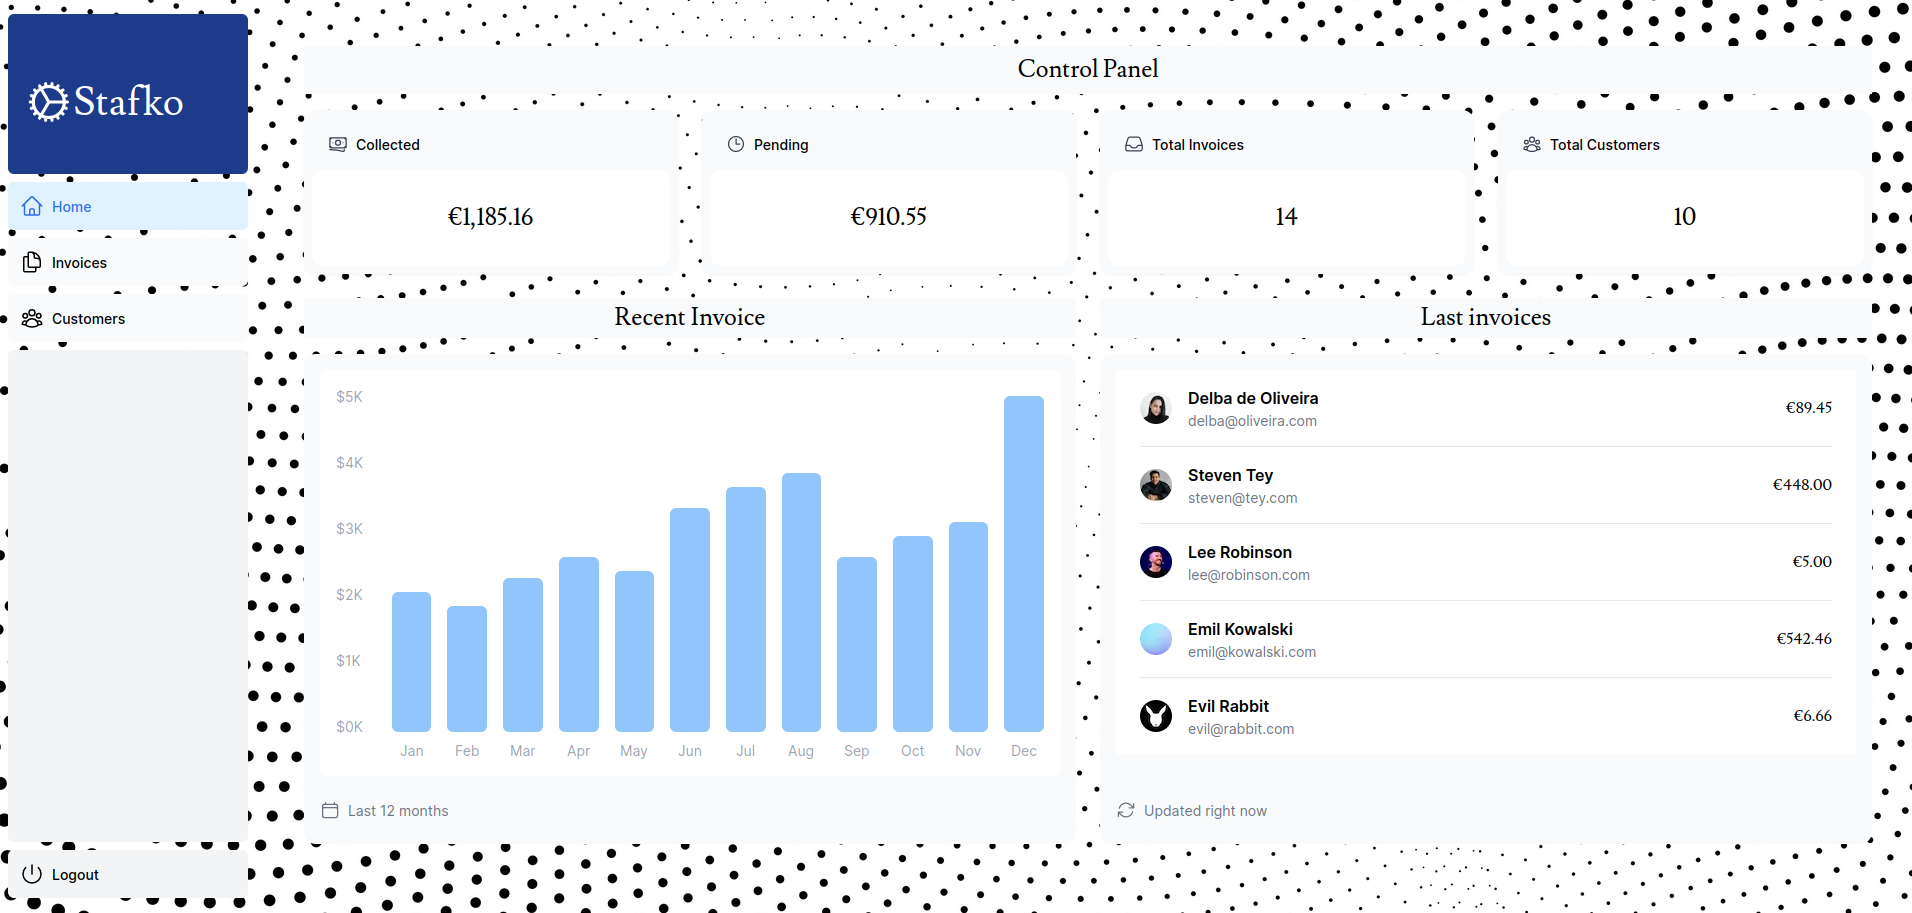
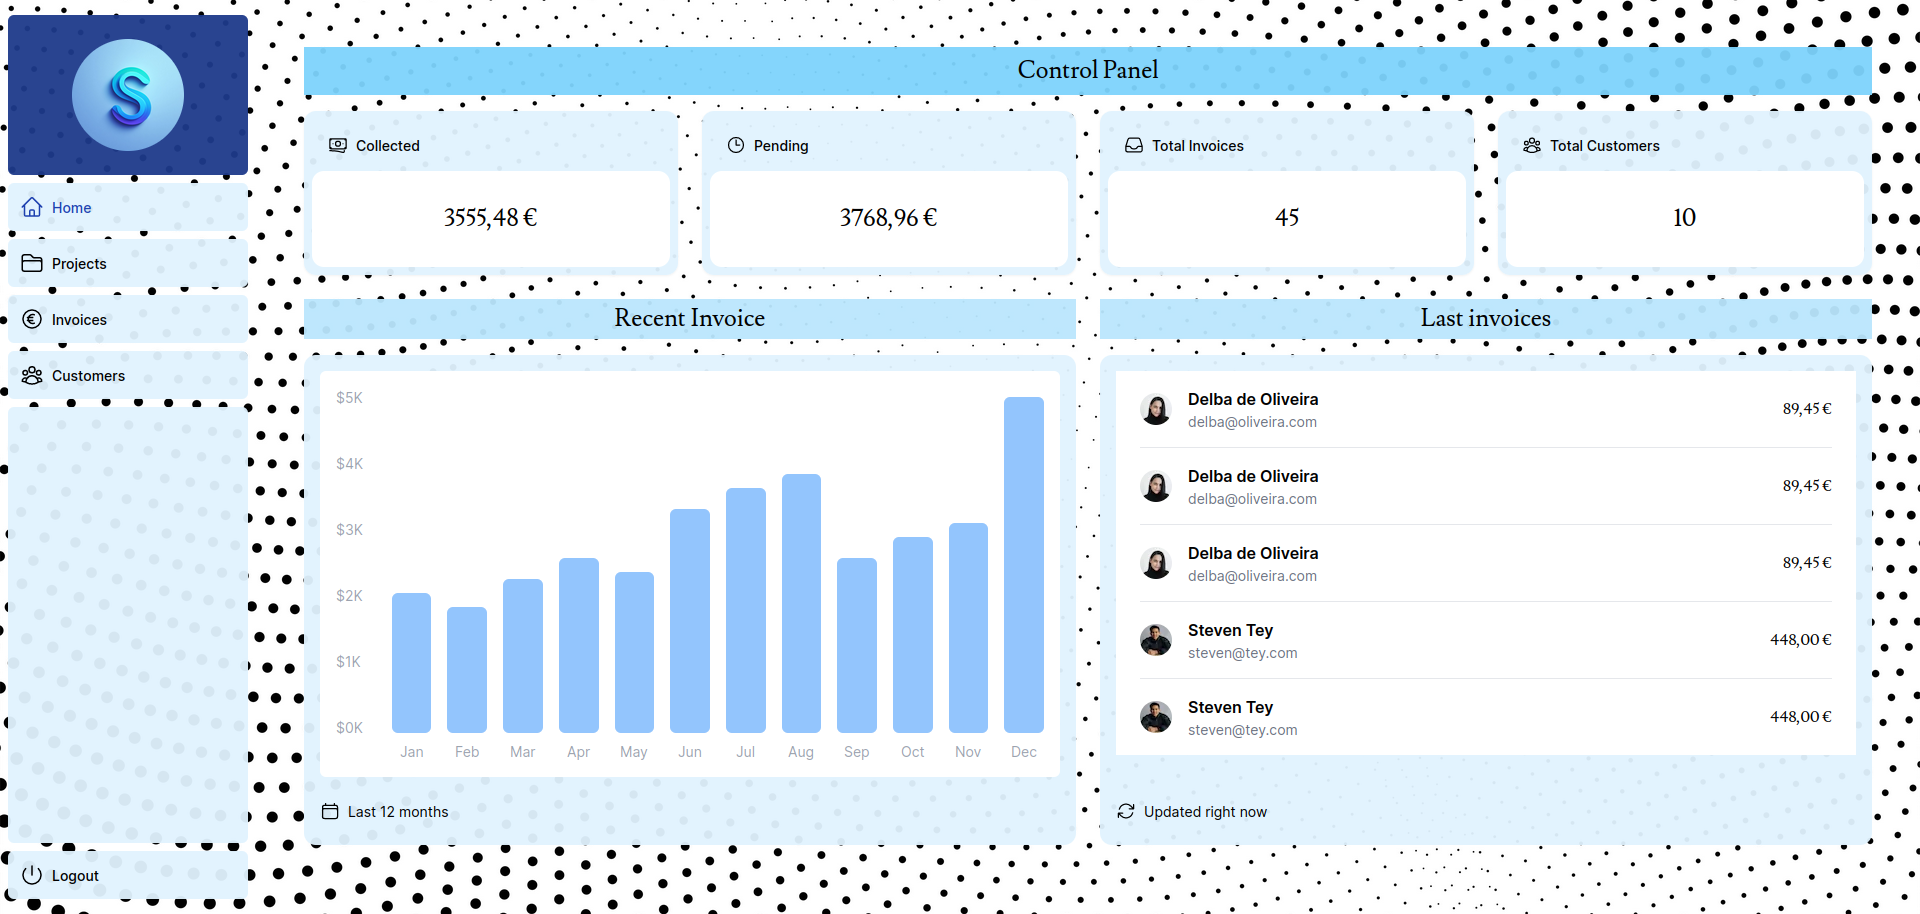
Update 30/04

diff --git a/app/ui/customers/create-form.tsx b/app/ui/customers/create-form.tsx
@@ -1,0 +1,144 @@
+'use client';
+
+import { useState } from 'react'; // Importamos useState
+import { StaffField } from '@/app/lib/definitions';
+import Link from 'next/link';
+import { CheckIcon, ClockIcon, UserGroupIcon } from '@heroicons/react/24/outline';
+import { Button } from '@/app/ui/button';
+import { createProject } from '@/app/lib/actions';
+
+export default function Form({ staff }: { staff: StaffField[] }) {
+  const [selectedStaff, setSelectedStaff] = useState<string[]>([]); // Estado para almacenar el personal seleccionado
+
+  const handleStaffSelection = (event: React.ChangeEvent<HTMLSelectElement>) => {
+    const selectedStaffId = event.target.value;
+    if (selectedStaffId && !selectedStaff.includes(selectedStaffId)) {
+      setSelectedStaff([...selectedStaff, selectedStaffId]);
+    }
+  };
+
+  return (
+    <form action={createProject}>
+      <div className="rounded-md bg-sky-100 p-4 md:p-6">
+        {/* Project Name */}
+        <div className="mb-4">
+          <label htmlFor="name" className="mb-2 block text-sm font-medium">
+            Customer Name
+          </label>
+          <input
+            id="name"
+            name="name"
+            type="text"
+            className="block w-full rounded-md border border-gray-200 py-2 px-4 text-sm outline-2 placeholder:text-gray-500"
+            required
+          />
+        </div>
+
+        {/* Associated Staff */}
+        <div className="mb-4">
+          <label htmlFor="staff" className="mb-2 block text-sm font-medium">
+            Choose Staff
+          </label>
+          <select
+            id="staff"
+            name="staffId"
+            className="block w-full cursor-pointer rounded-md border border-gray-200 py-2 px-4 text-sm outline-2 placeholder:text-gray-500"
+            defaultValue=""
+            required
+            onChange={handleStaffSelection}
+          >
+            <option value="" disabled>
+              Select Staff
+            </option>
+            {staff.map((staffMember) => (
+              <option key={staffMember.id} value={staffMember.id}>
+                {staffMember.name}
+              </option>
+            ))}
+          </select>
+        </div>
+
+        {/* Selected Staff Display */}
+        <div className="mb-4">
+          <label className="mb-2 block text-sm font-medium">
+            Selected Staff
+          </label>
+          <ul className="list-disc pl-6">
+            {selectedStaff.map((staffId) => (
+              <li key={staffId}>{staff.find((staffMember) => staffMember.id === staffId)?.name}</li>
+            ))}
+          </ul>
+        </div>
+
+        {/* Project Status */}
+        <fieldset>
+          <legend className="mb-2 block text-sm font-medium">
+            Indicate Project Status 
+          </legend>
+          <div className="rounded-md border border-gray-200 bg-white px-4 py-3">
+            <div className="flex gap-4">
+              <div className="flex items-center">
+                <input
+                  id="active"
+                  name="status"
+                  type="radio"
+                  value="active"
+                  className="h-4 w-4 cursor-pointer border-gray-300 bg-gray-100 text-gray-600 focus:ring-2"
+                  defaultChecked
+                />
+                <label
+                  htmlFor="active"
+                  className="ml-2 flex cursor-pointer items-center gap-1.5 rounded-full bg-green-500 px-3 py-1.5 text-xs font-medium text-white"
+                >
+                  Active <CheckIcon className="h-4 w-4" />
+                </label>
+              </div>
+              <div className="flex items-center">
+                <input
+                  id="completed"
+                  name="status"
+                  type="radio"
+                  value="completed"
+                  className="h-4 w-4 cursor-pointer border-gray-300 bg-gray-100 text-gray-600 focus:ring-2"
+                />
+                <label
+                  htmlFor="completed"
+                  className="ml-2 flex cursor-pointer items-center gap-1.5 rounded-full bg-gray-100 px-3 py-1.5 text-xs font-medium text-gray-600"
+                >
+                  Completed <ClockIcon className="h-4 w-4" />
+                </label>
+              </div>
+            </div>
+          </div>
+        </fieldset>
+
+        {/* Project Staff */}
+        <div className="mb-4">
+          <label htmlFor="staffCount" className="mb-2 block text-sm font-medium">
+            Staff Count
+          </label>
+          <div className="relative">
+            <input
+              id="staffCount"
+              name="staffCount"
+              type="number"
+              min="0"
+              className="block w-full rounded-md border border-gray-200 py-2 px-4 text-sm outline-2 placeholder:text-gray-500"
+              required
+            />
+            <UserGroupIcon className="pointer-events-none absolute left-3 top-1/2 h-[18px] w-[18px] -translate-y-1/2 text-gray-500" />
+          </div>
+        </div>
+      </div>
+      <div className="mt-6 flex justify-end gap-4">
+        <Link
+          href="/dashboard/projects"
+          className="flex h-10 items-center rounded-lg bg-gray-100 px-4 text-sm font-medium text-gray-600 transition-colors hover:bg-gray-200"
+        >
+          Cancel
+        </Link>
+        <Button type="submit">Create Project</Button>
+      </div>
+    </form>
+  );
+}

diff --git a/app/dashboard/customers/page.tsx b/app/dashboard/customers/page.tsx
@@ -1,3 +1,40 @@
-export default function Page() {
-  return <p>Clients page, under development...</p>;
+import Pagination from '@/app/ui/invoices/pagination' // CAMBIAR IMPORTS
+import Search from '@/app/ui/search';
+import Table from '@/app/ui/customers/table';
+import { CreateCustomer } from '@/app/ui/customers/buttons';
+import { lusitana } from '../../ui/invoices/fonts';
+import { ProjectsTableSkeleton } from '@/app/ui/skeletons';
+import { fetchProjectsPages } from '@/app/lib/data';
+import { Suspense } from 'react';
+
+export default async function Page({
+  searchParams,
+}: {
+  searchParams?: {
+    query?: string;
+    page?: string;
+  };
+}) {
+  const query = searchParams?.query || '';
+  const currentPage = Number(searchParams?.page) || 1;
+
+  const totalPages = await fetchProjectsPages(query);
+// Implement a new sidebar button called "Tracker". This new button should navigate to the tracker page. The tracker page should give the user a dropdown menu to select one project
+  return (
+    <div className="w-full">
+      <div className="flex w-full items-center justify-between">
+        <h1 className={`${lusitana.className} text-2xl bg-sky-200 bg-opacity-95 p-2 rounded-xl`}>Customers</h1>
+      </div>
+      <div className="mt-4 flex items-center justify-between gap-2 md:mt-8">
+        <Search placeholder="Search customers to filter" />
+        <CreateCustomer />
+      </div>
+      <Suspense key={query + currentPage} fallback={<ProjectsTableSkeleton />}>
+        {/* <Table query={query} currentPage={currentPage} /> */}
+      </Suspense>
+      <div className="mt-5 flex w-full justify-center">
+        <Pagination totalPages={totalPages} />
+      </div>
+    </div>
+  );
 }

diff --git a/app/ui/customers/buttons.tsx b/app/ui/customers/buttons.tsx
@@ -1,0 +1,39 @@
+import { PencilIcon, PlusIcon, TrashIcon } from '@heroicons/react/24/outline';
+import Link from 'next/link';
+import { deleteProject } from '@/app/lib/actions';
+
+export function CreateCustomer() {
+    return (
+      <Link
+        href="/dashboard/projects/create"
+        className="flex h-10 items-center rounded-lg bg-blue-600 px-4 text-sm font-medium text-white transition-colors hover:bg-blue-500 focus-visible:outline focus-visible:outline-2 focus-visible:outline-offset-2 focus-visible:outline-blue-600"
+      >
+        <span className="hidden md:block">Add Customer</span>{' '}
+        <PlusIcon className="h-5 md:ml-4" />
+      </Link>
+    );
+  }
+  
+  export function UpdateCustomer({ id }: { id: string }) {
+    return (
+      <Link
+        href={`/dashboard/projects/${id}/edit`}
+        className="rounded-md border p-2 hover:bg-gray-100"
+      >
+        <PencilIcon className="w-5" />
+      </Link>
+    );
+  }
+  
+  export function DeleteProject({ id }: { id: string }) {
+    const deleteProjectWithId = deleteProject.bind(null, id);
+  
+    return (
+      <form onSubmit={deleteProjectWithId}>
+        <button type="submit" className="rounded-md border p-2 hover:bg-gray-100">
+          <span className="sr-only">Delete</span>
+          <TrashIcon className="w-5" />
+        </button>
+      </form>
+    );
+  }

diff --git a/app/ui/invoices/table.tsx b/app/ui/invoices/table.tsx
@@ -3,6 +3,8 @@ import { UpdateInvoice, DeleteInvoice } from '@/app/ui/invoices/buttons';
 import InvoiceStatus from '@/app/ui/invoices/status';
 import { formatDateToLocal, formatCurrency } from '@/app/lib/utils';
 import { fetchFilteredInvoices } from '@/app/lib/data';
+import { enUS } from 'date-fns/locale';
+import { format, hoursToMinutes } from 'date-fns';
 
 export default async function InvoicesTable({
   query,
@@ -13,10 +15,15 @@ export default async function InvoicesTable({
 }) {
   const invoices = await fetchFilteredInvoices(query, currentPage);
 
+  const formatDateToLocal = (dateString: string) => {
+    const date = new Date(dateString);
+    return format(date, 'yyyy LLL d', { locale: enUS });
+  };
+
   return (
     <div className="mt-6 flow-root">
       <div className="inline-block min-w-full align-middle">
-        <div className="rounded-lg bg-gray-50 p-2 md:pt-0">
+        <div className="rounded-lg bg-sky-100 bg-opacity-95 p-2 md:pt-0">
           <div className="md:hidden">
             {invoices?.map((invoice) => (
               <div

diff --git a/app/ui/projects/table.tsx b/app/ui/projects/table.tsx
@@ -4,6 +4,8 @@ import ProjectStatus from '@/app/ui/projects/status';
 import { formatDateToLocal, formatCurrency } from '@/app/lib/utils';
 import { fetchFilteredProjects } from '@/app/lib/data';
 import { Project } from '@/app/lib/definitions';
+import { enUS } from 'date-fns/locale';
+import { format } from 'date-fns';
 
 export default async function ProjectsTable({
   query,
@@ -14,10 +16,15 @@ export default async function ProjectsTable({
 }) {
   const projects = await fetchFilteredProjects(query, currentPage);
 
+  const formatDateToLocal = (dateString: string) => {
+    const date = new Date(dateString);
+    return format(date, 'yyyy LLL d', { locale: enUS });
+  };
+
   return (
     <div className="mt-6 flow-root">
       <div className="inline-block min-w-full align-middle">
-        <div className="rounded-lg bg-gray-50 p-2 md:pt-0">
+        <div className="rounded-lg bg-sky-100 bg-opacity-95 p-2 md:pt-0">
           <div className="md:hidden">
             {projects?.map((project: Project) => (
               <div

diff --git a/app/dashboard/customers/create/page.tsx b/app/dashboard/customers/create/page.tsx
@@ -1,23 +1,23 @@
-import Form from '@/app/ui/projects/create-form'; // CAMBIAR
+import Form from '@/app/ui/invoices/create-form';
 import Breadcrumbs from '@/app/ui/invoices/breadcrumbs';
 import { fetchCustomers } from '@/app/lib/data';
  
 export default async function Page() {
   const customers = await fetchCustomers();
-
+ 
   return (
     <main>
       <Breadcrumbs
         breadcrumbs={[
-          { label: 'Projects', href: '/dashboard/projects' },
+          { label: 'Invoices', href: '/dashboard/invoices' },
           {
-            label: 'Create Project',
-            href: '/dashboard/project/create',
+            label: 'Create Invoice',
+            href: '/dashboard/invoices/create',
             active: true,
           },
         ]}
       />
-      {/* <Form customers={customers} /> */}
+      <Form customers={customers} />
     </main>
   );
 }

diff --git a/app/dashboard/customers/[id]/edit/page.tsx b/app/dashboard/customers/[id]/edit/page.tsx
@@ -1,4 +1,4 @@
-import Form from '@/app/ui/invoices/edit-form';
+import Form from '@/app/ui/invoices/edit-form'; // ACTUALIZAR IMPORTS
 import Breadcrumbs from '@/app/ui/invoices/breadcrumbs';
 import { fetchInvoiceById, fetchCustomers } from '@/app/lib/data';
 import { notFound } from 'next/navigation';
@@ -18,10 +18,10 @@ export default async function Page({ params }: { params: { id: string } }) {
     <main>
       <Breadcrumbs
         breadcrumbs={[
-          { label: 'Projects', href: '/dashboard/invoices' },
+          { label: 'Customers', href: '/dashboard/customers' },
           {
-            label: 'Edit Project',
-            href: `/dashboard/projects/${id}/edit`,
+            label: 'Edit Customer',
+            href: `/dashboard/customers/${id}/edit`,
             active: true,
           },
         ]}

diff --git a/app/ui/customers/status.tsx b/app/ui/customers/status.tsx
@@ -1,0 +1,29 @@
+import { CheckIcon, ClockIcon } from '@heroicons/react/24/outline';
+import clsx from 'clsx';
+
+export default function InvoiceStatus({ status }: { status: string }) {
+  return (
+    <span
+      className={clsx(
+        'inline-flex items-center rounded-full px-2 py-1 text-xs',
+        {
+          'bg-gray-100 text-gray-500': status === 'active',
+          'bg-green-500 text-white': status === 'completed',
+        },
+      )}
+    >
+      {status === 'active' ? (
+        <>
+          Active
+          <ClockIcon className="ml-1 w-4 text-gray-500" />
+        </>
+      ) : null}
+      {status === 'completed' ? (
+        <>
+          Completed
+          <CheckIcon className="ml-1 w-4 text-white" />
+        </>
+      ) : null}
+    </span>
+  );
+}

diff --git a/app/dashboard/customers/error.tsx b/app/dashboard/customers/error.tsx
@@ -1,0 +1,29 @@
+'use client';
+ 
+import { useEffect } from 'react';
+ 
+export default function Error({
+  error,
+  reset,
+}: {
+  error: Error & { digest?: string };
+  reset: () => void;
+}) {
+  useEffect(() => {
+    console.error(error);
+  }, [error]);
+ 
+  return (
+    <main className="flex h-full flex-col items-center justify-center">
+      <h2 className="text-center rounded-xl bg-red-500 bg-opacity-80 p-5">Something went wrong!</h2>
+      <button
+        className="mt-4 rounded-md bg-blue-500 px-4 py-2 text-sm text-white transition-colors hover:bg-blue-400"
+        onClick={
+          () => reset()
+        }
+      >
+        Restart
+      </button>
+    </main>
+  );
+}

diff --git a/app/dashboard/customers/[id]/edit/not-found.tsx b/app/dashboard/customers/[id]/edit/not-found.tsx
@@ -6,7 +6,7 @@ export default function NotFound() {
     <main className="flex h-full flex-col items-center justify-center gap-2">
       <FaceFrownIcon className="w-10 text-gray-400" />
       <h2 className="text-xl font-semibold">ERROR 404: Not Found</h2>
-      <p>Could not find the requested project.</p>
+      <p>Could not find the requested customer.</p>
       <Link
         href="/dashboard/invoices"
         className="mt-4 rounded-md bg-blue-500 px-4 py-2 text-sm text-white transition-colors hover:bg-blue-400"
